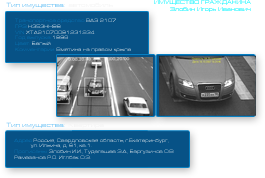
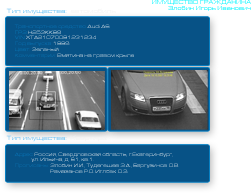
новые превью для трека и имущества + время -5мин для трека

diff --git a/compile/scene/track.html b/compile/scene/track.html
@@ -1,7 +1,19 @@
 <div class="sceneinfo-text-container">
-  <h2 class="text-right">Трекинг местоположения гражданина</h2>
+  <h2 class="text-right">Отслеживание перемещений гражданина</h2>
   <h3 class="text-right">Злобин Игорь Иванович</h3>
   <h3 class="period">За последние <span>7 суток</span></h3>
+
+  <div class="point">
+    <div class="point-photo">
+      <img src="/static/images/scene/track-photo-4.png"/>
+    </div>
+    <div class="point-text">
+      <p><b>Место</b><span> Квартира подельника Анохина Дмитрия Александровича</span></p>
+      <p><b>Адрес</b><span> ул Войкова 10, Тула</span></p>
+      <p><b>Дата</b><span class="alarmDate">20.02.2014</span></p>
+      <p><b>Время</b><span class="alarmTime"> 13:55</span></p>
+    </div>
+  </div>
 
   <div class="point">
     <div class="point-photo">
@@ -10,8 +22,8 @@
     <div class="point-text">
       <p><b>Место</b><span> Квартира подельника Анохина Дмитрия Александровича</span></p>
       <p><b>Адрес</b><span> ул Войкова 10, Тула</span></p>
-      <p><b>Дата</b><span>20.02.2014</span></p>
-      <p><b>Время</b><span> 13:55</span></p>
+      <p><b>Дата</b><span class="alarmDate">20.02.2014</span></p>
+      <p><b>Время</b><span class="alarmTime"> 13:55</span></p>
     </div>
   </div>
   <div class="point">
@@ -34,17 +46,6 @@
       <p><b>Адрес</b><span> ул. 1-я Хомутовка 1 стр 12, Тула</span></p>
       <p><b>Дата</b><span> 18.02.2014</span></p>
       <p><b>Время</b><span>10:30</span></p>
-    </div>
-  </div>
-  <div class="point">
-    <div class="point-photo">
-      <img src="/static/images/scene/track-photo-4.png"/>
-    </div>
-    <div class="point-text">
-      <p><b>Место</b><span>Московский вокзал</span></p>
-      <p><b>Адрес</b><span>пл. Московского вокзала 4</span></p>
-      <p><b>Дата</b><span>17.02.2014</span></p>
-      <p><b>Время</b><span> 15:45</span></p>
     </div>
   </div>
 </div>

diff --git a/compile/js/scene.js b/compile/js/scene.js
@@ -168,6 +168,17 @@ var SceneInfoWidget = function(app, panel) {
                         $(tr).addClass('active')
                       })
                     }
+                    if (page == 'track') {
+                      var t = new Date(new Date() - 5 * 60 * 1000)
+                      var d = t.getDate() < 10 ? '0' + t.getDate() : t.getDate()
+                      var month = t.getMonth() + 1 < 10 ? '0' + (t.getMonth() + 1) : (t.getMonth() + 1)
+                      var hours = t.getHours() < 10 ? '0' + t.getHours() : t.getHours()
+                      var minutes = t.getMinutes() < 10 ? '0' + t.getMinutes() : t.getMinutes()
+                      var alarmDate = d + '.' + month + '.' + t.getFullYear();
+                      var alarmTime = hours + ':' + minutes;
+                      $('.alarmDate').text(alarmDate);
+                      $('.alarmTime').text(alarmTime);
+                    }
                 });
             }, 400);
         }

diff --git a/compile/css/scene.css b/compile/css/scene.css
@@ -71,8 +71,8 @@
 
 #sceneinfo-extra-9 img {
   position: absolute;
-  top: 20px;
-  left: 30px;
+  top: 2px;
+  left: 0;
 }
 
 #sceneinfo-extra-10 img {
